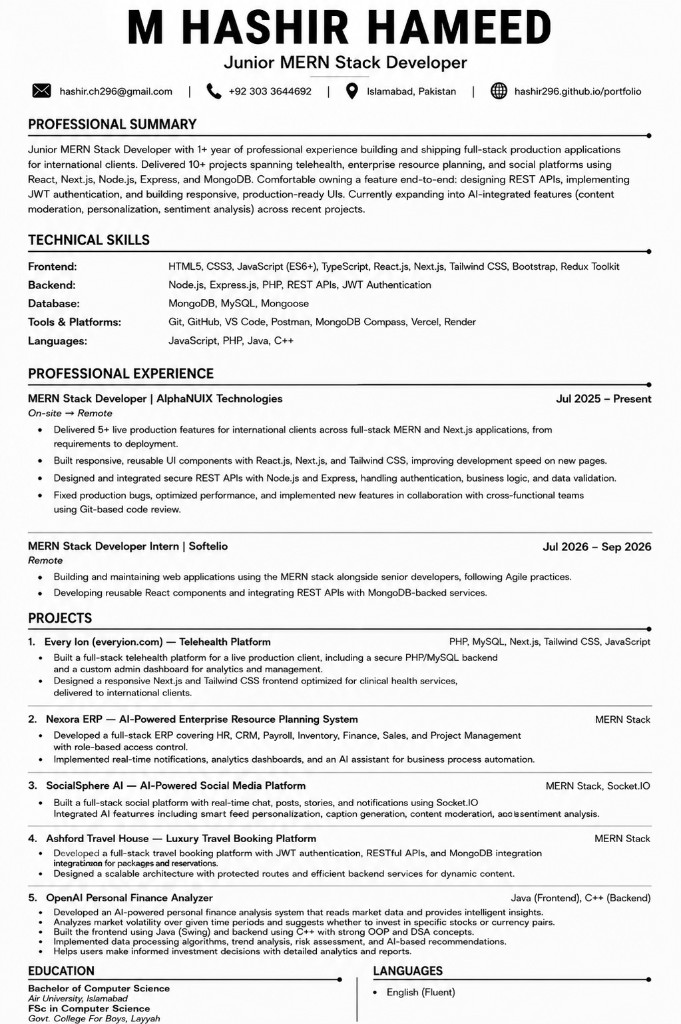
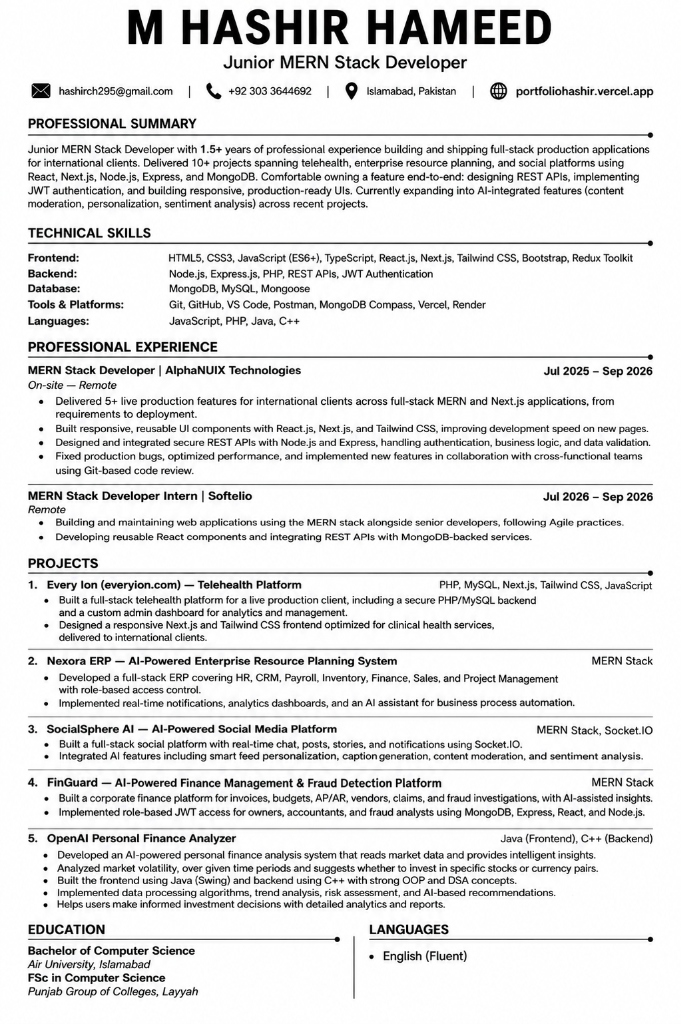
Update experience to 1.5+ years and refresh CV and portrait assets

diff --git a/src/data/profile.ts b/src/data/profile.ts
@@ -19,14 +19,14 @@ export const profile = {
     instagram: "https://www.instagram.com/hashir.ch296/",
   },
   summary:
-    "Junior MERN Stack Developer with 1+ year of professional experience building and shipping full-stack production applications for international clients. Delivered 10+ projects spanning telehealth, enterprise resource planning, and social platforms using React, Next.js, Node.js, Express, and MongoDB. Comfortable owning a feature end-to-end: designing REST APIs, implementing JWT authentication, and building responsive, production-ready UIs. Currently expanding into AI-integrated features (content moderation, personalization, sentiment analysis) across recent projects.",
+    "Junior MERN Stack Developer with 1.5+ years of professional experience building and shipping full-stack production applications for international clients. Delivered 10+ projects spanning telehealth, enterprise resource planning, and social platforms using React, Next.js, Node.js, Express, and MongoDB. Comfortable owning a feature end-to-end: designing REST APIs, implementing JWT authentication, and building responsive, production-ready UIs. Currently expanding into AI-integrated features (content moderation, personalization, sentiment analysis) across recent projects.",
   about: [
-    "Junior MERN Stack Developer with 1+ year of professional experience building and shipping full-stack production applications for international clients. Delivered 10+ projects spanning telehealth, enterprise resource planning, and social platforms using React, Next.js, Node.js, Express, and MongoDB. Comfortable owning a feature end-to-end: designing REST APIs, implementing JWT authentication, and building responsive, production-ready UIs. Currently expanding into AI-integrated features (content moderation, personalization, sentiment analysis) across recent projects.",
+    "Junior MERN Stack Developer with 1.5+ years of professional experience building and shipping full-stack production applications for international clients. Delivered 10+ projects spanning telehealth, enterprise resource planning, and social platforms using React, Next.js, Node.js, Express, and MongoDB. Comfortable owning a feature end-to-end: designing REST APIs, implementing JWT authentication, and building responsive, production-ready UIs. Currently expanding into AI-integrated features (content moderation, personalization, sentiment analysis) across recent projects.",
     "Based in Islamabad, I’m completing a BS in Computer Science at Air University while working as a MERN Stack Developer at AlphaNUIX Technologies and as a MERN Stack Developer Intern at Softelio.",
     "I’m open to developer roles and freelance projects.",
   ],
   highlights: [
-    { label: "Experience", value: "1+ year" },
+    { label: "Experience", value: "1.5+ years" },
     { label: "Projects", value: "10+ shipped" },
     { label: "Focus", value: "MERN + Next.js" },
     { label: "Based in", value: "Islamabad" },
@@ -61,7 +61,7 @@ export const profile = {
     {
       role: "MERN Stack Developer",
       company: "AlphaNUIX Technologies",
-      period: "Jul 2025 – Present",
+      period: "Jul 2025 – Sep 2026",
       type: "On-site → Remote",
       points: [
         "Delivered 5+ live production features for international clients across full-stack MERN and Next.js applications, from requirements to deployment.",
@@ -262,7 +262,7 @@ export const profile = {
   seo: {
     title: "M Hashir Hameed | Junior MERN Stack Developer in Islamabad",
     description:
-      "Junior MERN Stack Developer with 1+ year experience shipping 10+ full-stack projects for international clients — telehealth, ERP, and social platforms with React, Next.js, Node.js, Express, and MongoDB. Hire M Hashir Hameed in Islamabad, Pakistan.",
+      "Junior MERN Stack Developer with 1.5+ years experience shipping 10+ full-stack projects for international clients — telehealth, ERP, and social platforms with React, Next.js, Node.js, Express, and MongoDB. Hire M Hashir Hameed in Islamabad, Pakistan.",
     keywords: [
       "M Hashir Hameed",
       "Hashir Hameed portfolio",

diff --git a/src/lib/assistant.ts b/src/lib/assistant.ts
@@ -20,8 +20,8 @@ export function answerAboutHashir(question: string): string {
       : `${profile.name} is a ${profile.title} based in ${profile.location}.\n\n${profile.summary}\n\nContact: ${profile.email} | ${profile.phone}`;
   }
 
-  if (/(year|experience|1\+|one year|kitna)/i.test(q) && !/(project)/i.test(q)) {
-    return `${profile.name} has 1+ year of professional experience shipping full-stack production apps for international clients (AlphaNUIX Technologies; Softelio intern).`;
+  if (/(year|experience|1\+|1\.5|one year|kitna)/i.test(q) && !/(project)/i.test(q)) {
+    return `${profile.name} has 1.5+ years of professional experience shipping full-stack production apps for international clients (AlphaNUIX Technologies; Softelio intern).`;
   }
 
   if (/(skill|stack|tech|toolkit|technologies)/i.test(q)) {

diff --git a/src/components/Summary.tsx b/src/components/Summary.tsx
@@ -33,7 +33,7 @@ export default function Summary() {
             <img
               id="portrait-settled"
               src={profile.portrait}
-              alt={`${profile.name} — ${profile.title} in ${profile.location}. 1+ year building full-stack MERN and Next.js apps for international clients.`}
+              alt={`${profile.name} — ${profile.title} in ${profile.location}. 1.5+ years building full-stack MERN and Next.js apps for international clients.`}
               itemProp="image"
               className="h-full w-full object-cover opacity-0 transition-opacity duration-200"
             />

diff --git a/src/app/api/chat/route.ts b/src/app/api/chat/route.ts
@@ -20,7 +20,7 @@ FACTS — IDENTITY
 - Full name: ${profile.name} (goes by ${profile.shortName})
 - Title: ${profile.title}
 - Location: ${profile.location}
-- Experience: 1+ year professional
+- Experience: 1.5+ years professional
 - Projects delivered: 10+ (telehealth, finance + fraud detection, ERP, social platforms, AI chat, AI voice over, Dribbble clone, Onyx open source, travel)
 - Email: ${profile.email}
 - Phone: ${profile.phone}
